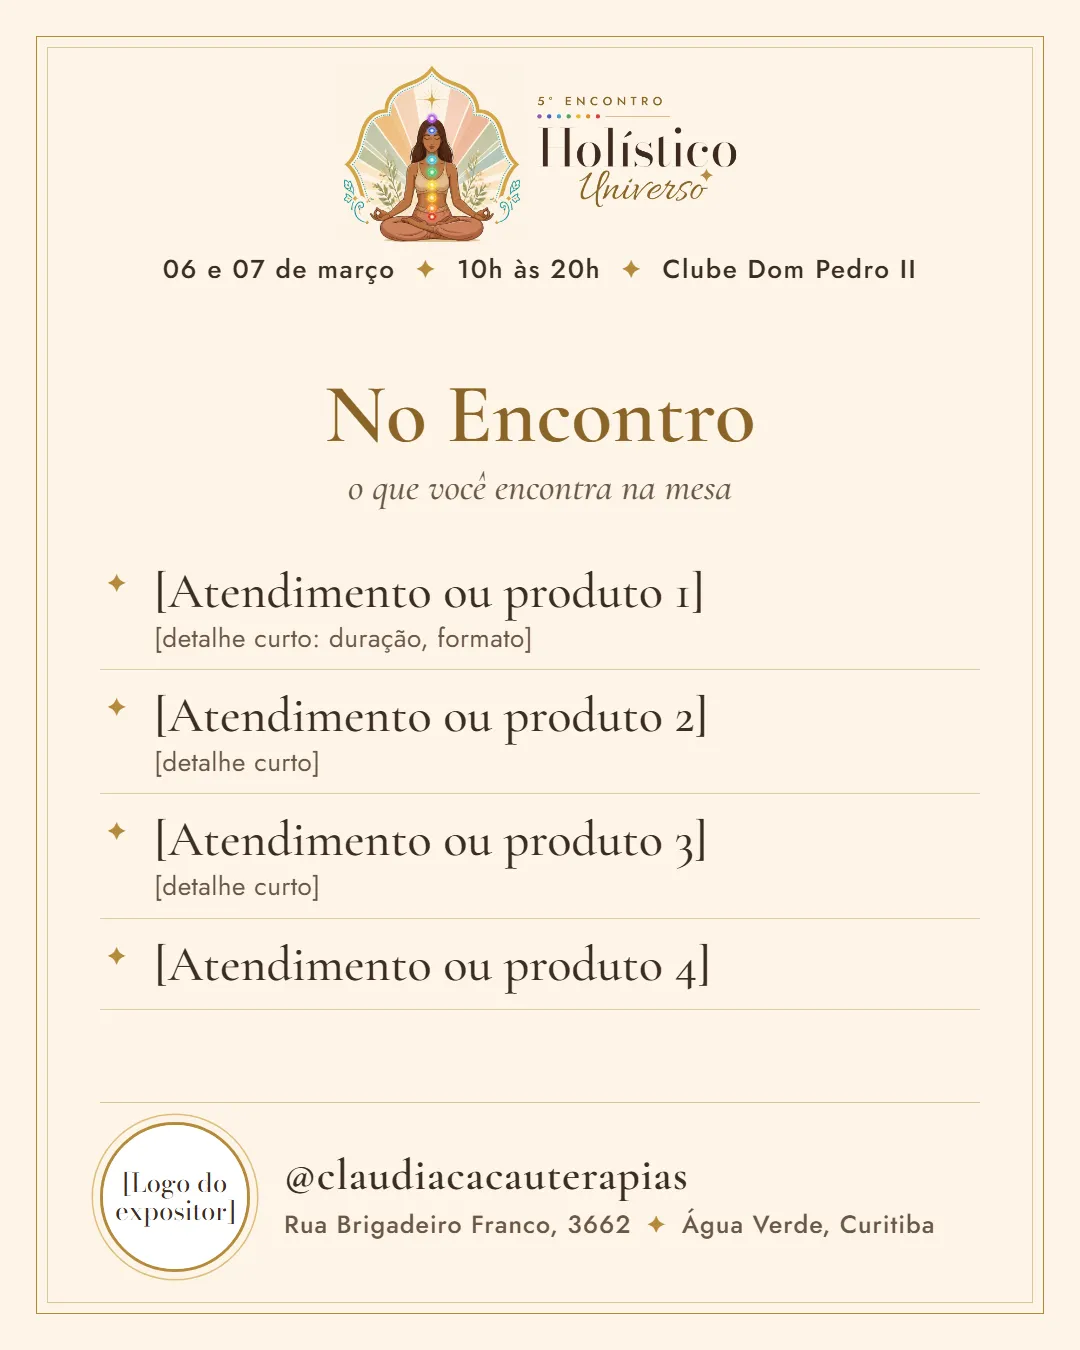
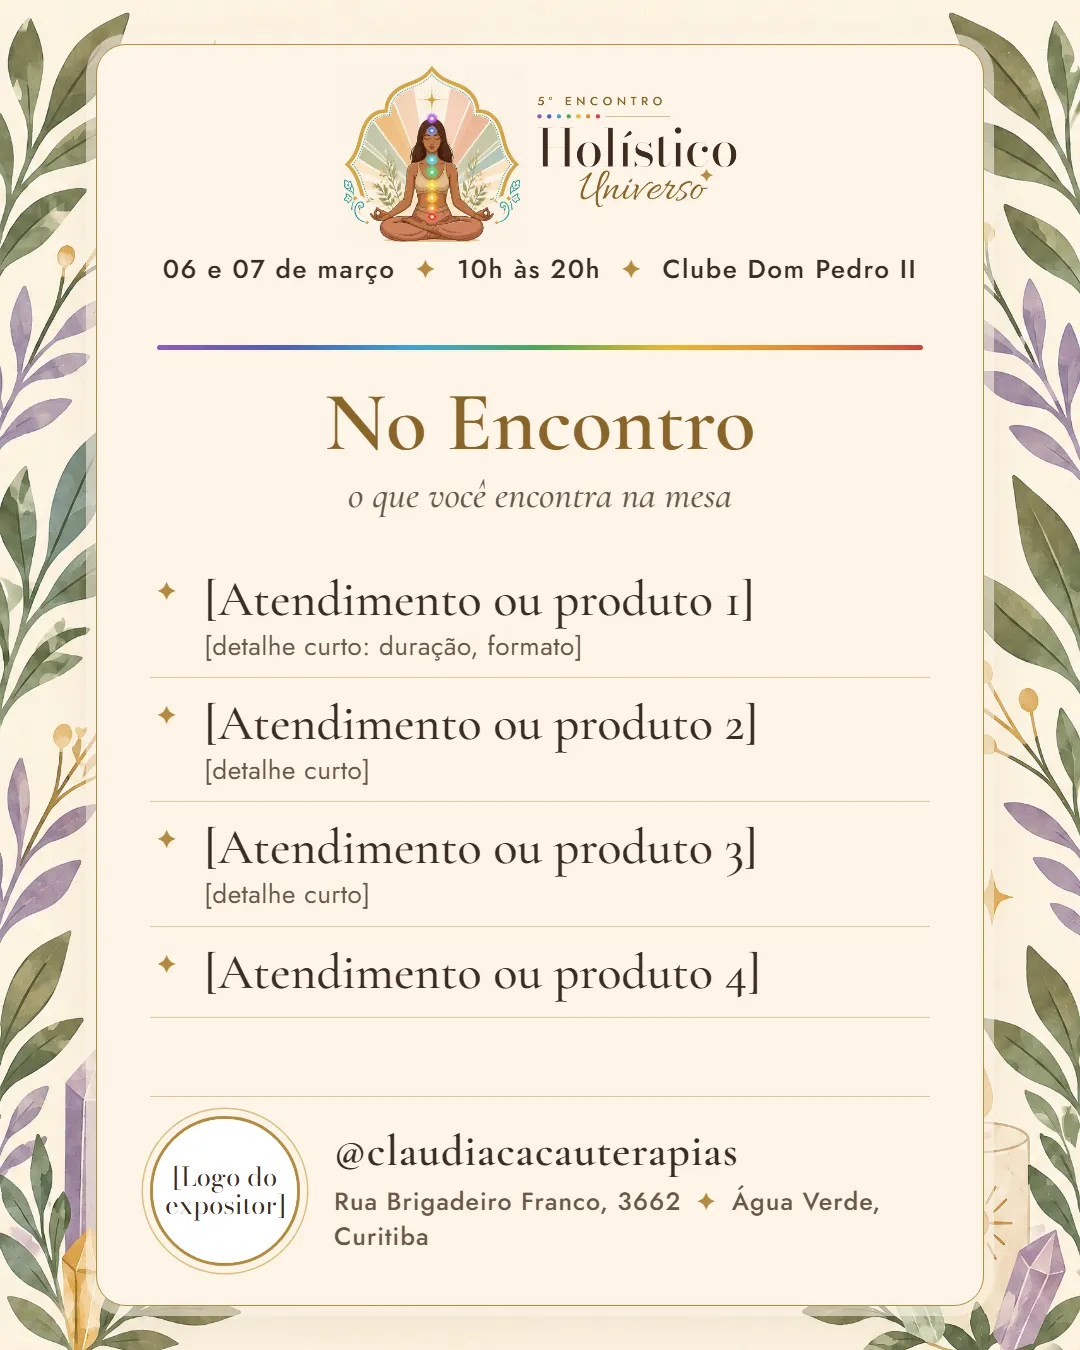
Holistico: variacao A do carrossel do expositor com a foto no post inteiro, sem moldura (02/11)

diff --git a/public/excellence/2026-11-02-holistico-instagram/dados.js b/public/excellence/2026-11-02-holistico-instagram/dados.js
@@ -399,7 +399,7 @@ window.DADOS = {
      "titulo": "Variação A",
      "etiqueta": "Carrossel",
      "ordem": "1 de 2",
-     "nota": "Uma foto por expositor. Logo centrado no topo e faixa com a data. Mais simples de preencher.",
+     "nota": "A foto do expositor no post inteiro, sem moldura, com o logo do Encontro num selo em cima. As telas de dentro seguem a linha do Instagram novo (cartão sobre as plantas). Uma foto por expositor.",
      "escolhas": [
       {
        "pergunta": "Qual carrossel vira o padrão do expositor?",
